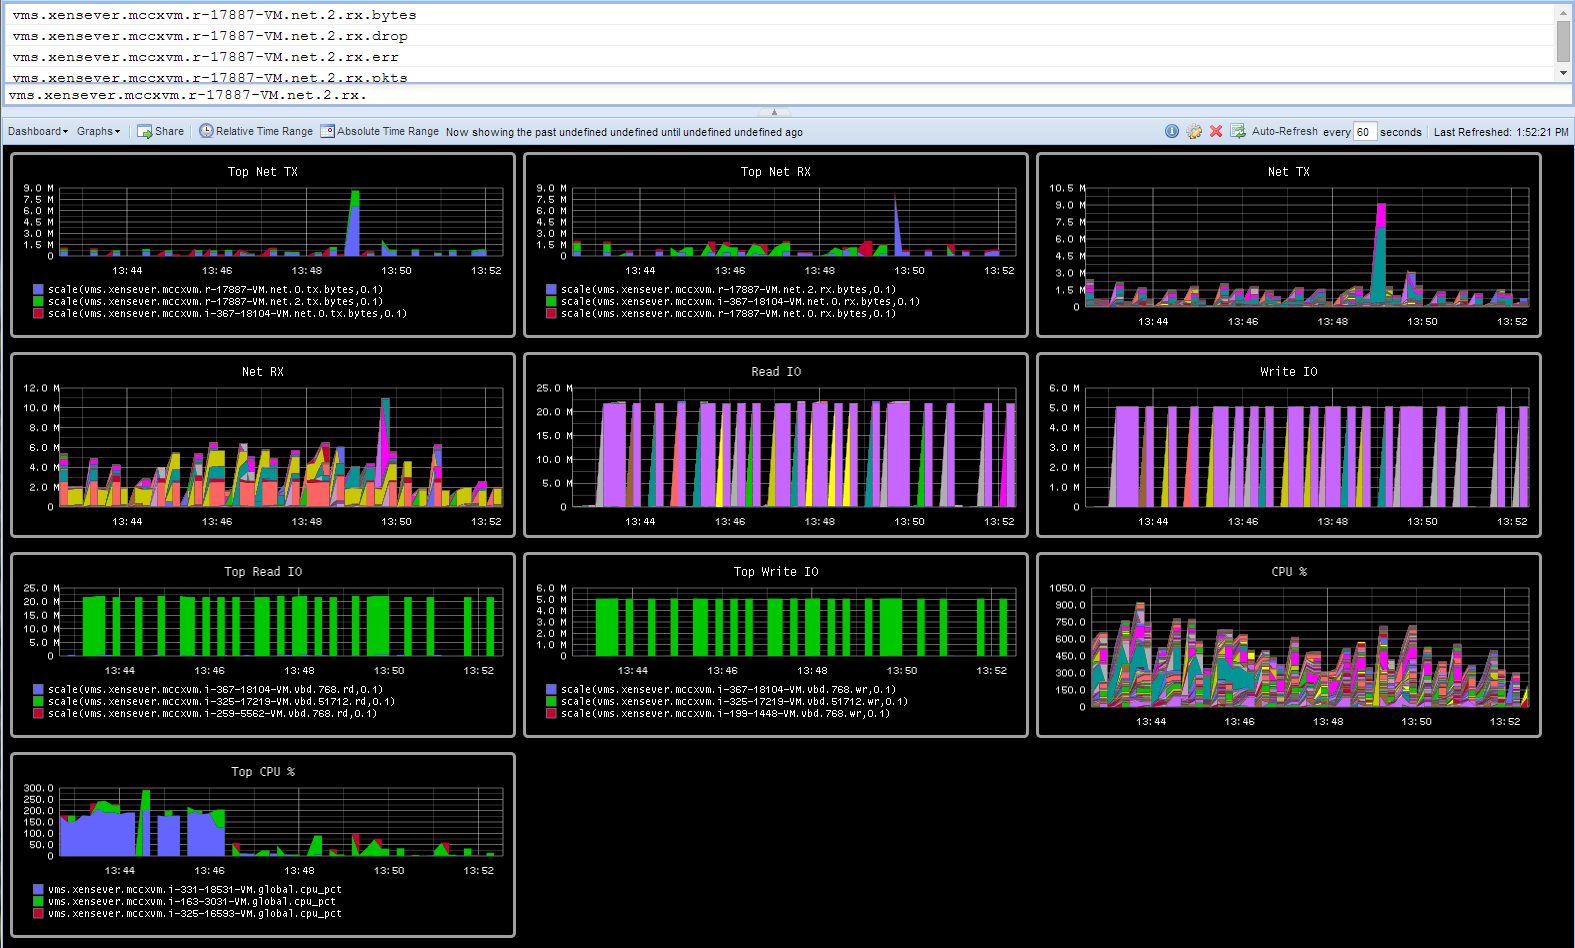
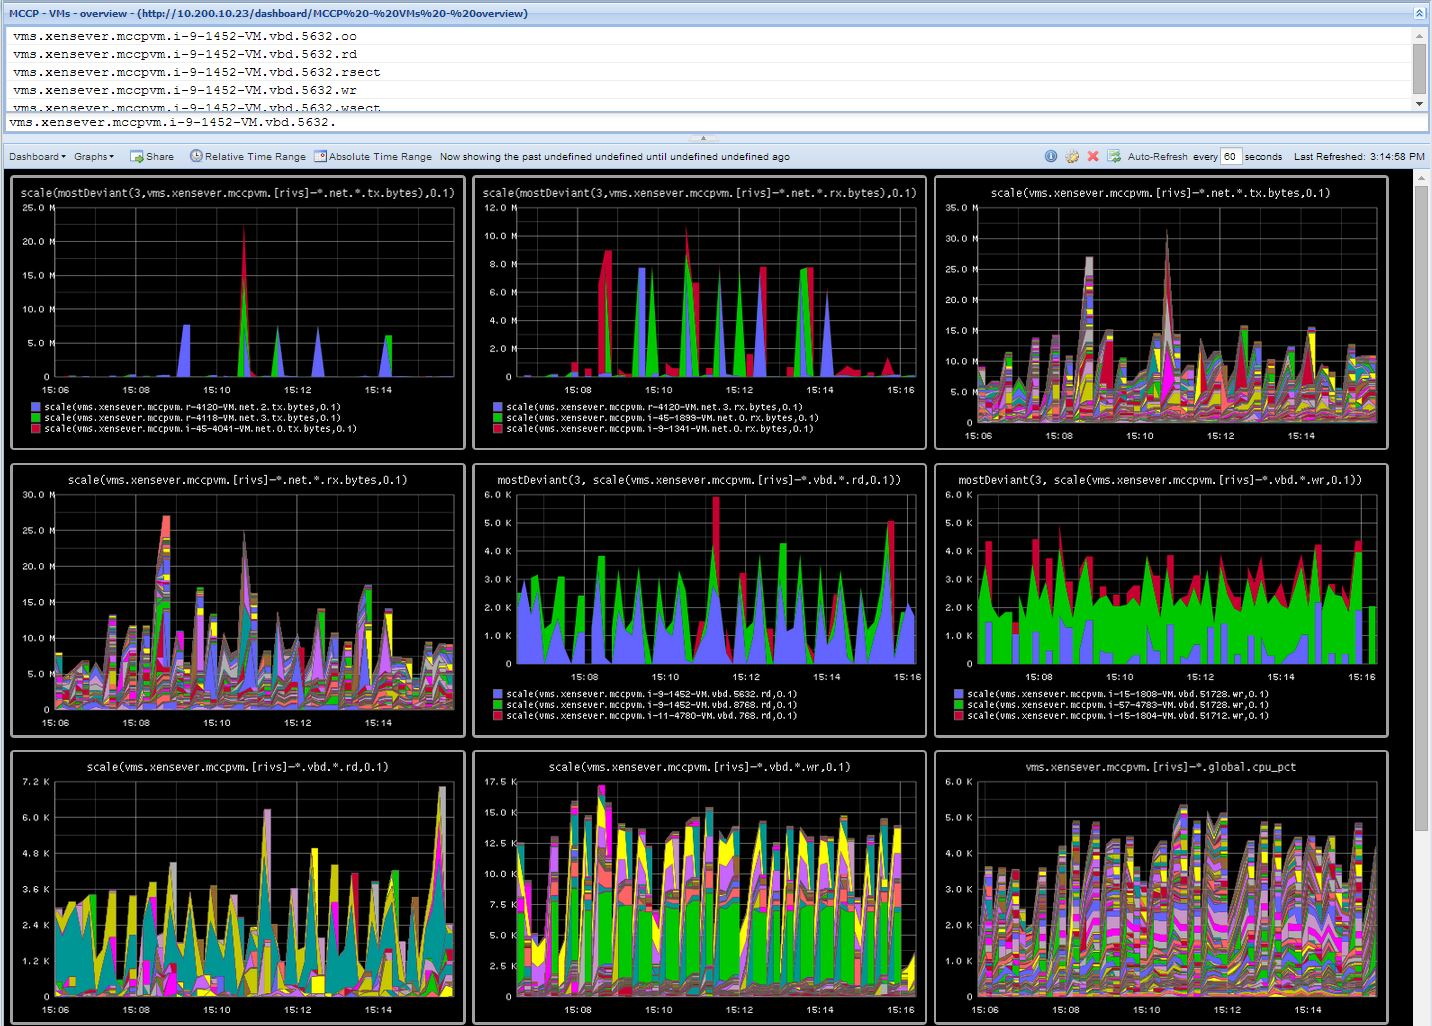
Better graph and matching README

diff --git a/README.md b/README.md
@@ -4,5 +4,37 @@ Push VM statistics, cpu, disk and net from xentop to carbon either direct
 or by means of collectd, supports xapi and xm.
 
 2 Examples in the gxentop.pl-exampleGraphiteDashboard.png are nice:
-•	To net TX/RX: this is a routerVM controlled by cloudstack, and doing moderate network load. 
-•	Top Read IO shwwwows us the most misbehaving VM in  our cloud; it seems that the VM from tenant 325 with VM ID 17219 is the most misbehaving VM which is hammering the shared storage underneath, and it is doing this via a disk known to cloudstack with id 51712.
+---------
+* To net TX/RX: this is a routerVM controlled by cloudstack, and doing moderate network load. 
+* Top Read IO shows us the most misbehaving VM in our cloud; it seems that the VM from account id 9 with vm_instance id 1452 is the most misbehaving VM which is hammering the shared storage underneath, and it is doing this via a disk known to Xen with id 5632.
+
+This Xen ID can be used to get the specific disk ID with the xenstore-ls and xl commands:
+...
+    # xenstore-ls `xl block-list i-9-1452-VM | awk '{ print $7 }' | grep 5632`
+    frontend = "/local/domain/386/device/vbd/5632"
+    online = "1"
+    sm-data = ""
+     storage-type = "nfs"
+     scsi = ""
+      0x12 = ""
[1 lines of base64/hex data omitted]
+       0x80 = "AIAAEjJkNjZhYTVmLTNmNmMtNDQgIA=="
+     vdi-uuid = "2d66aa5f-3f6c-444f-8327-2c9e54ec2b17"
+     mem-pool = "a119270f-6fac-7b22-84a5-44816ff20dc6"
+    params = "/dev/sm/backend/a119270f-6fac-7b22-84a5-44816ff20dc6/2d66aa5f-3f6c-444f-8327-2c9e54ec2b17"
+    state = "4"
+    dev = "hdc"
+    physical-device = "fd:c"
+    removable = "1"
+    mode = "w"
+    frontend-id = "386"
+    type = "phy"
+    max-ring-page-order = "0"
+    hotplug-status = "connected"
+    feature-barrier = "1"
+    sectors = "524288000"
+    info = "0"
+    sector-size = "512"
+    kthread-pid = "32742"
+    [root@mccpvm24 ~]# 
+...
